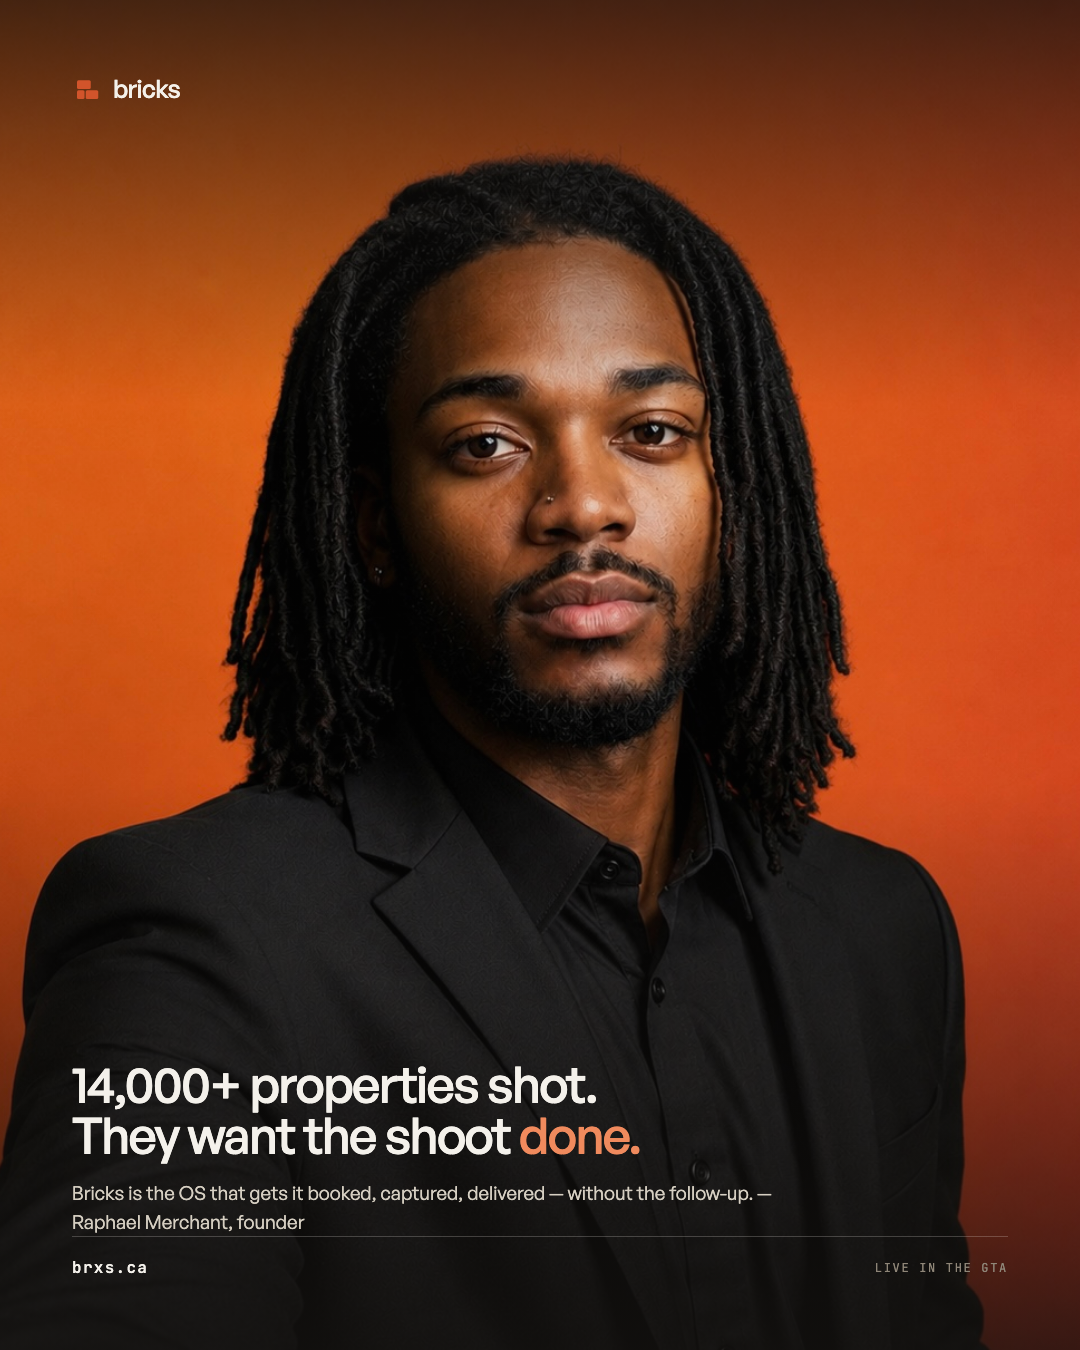
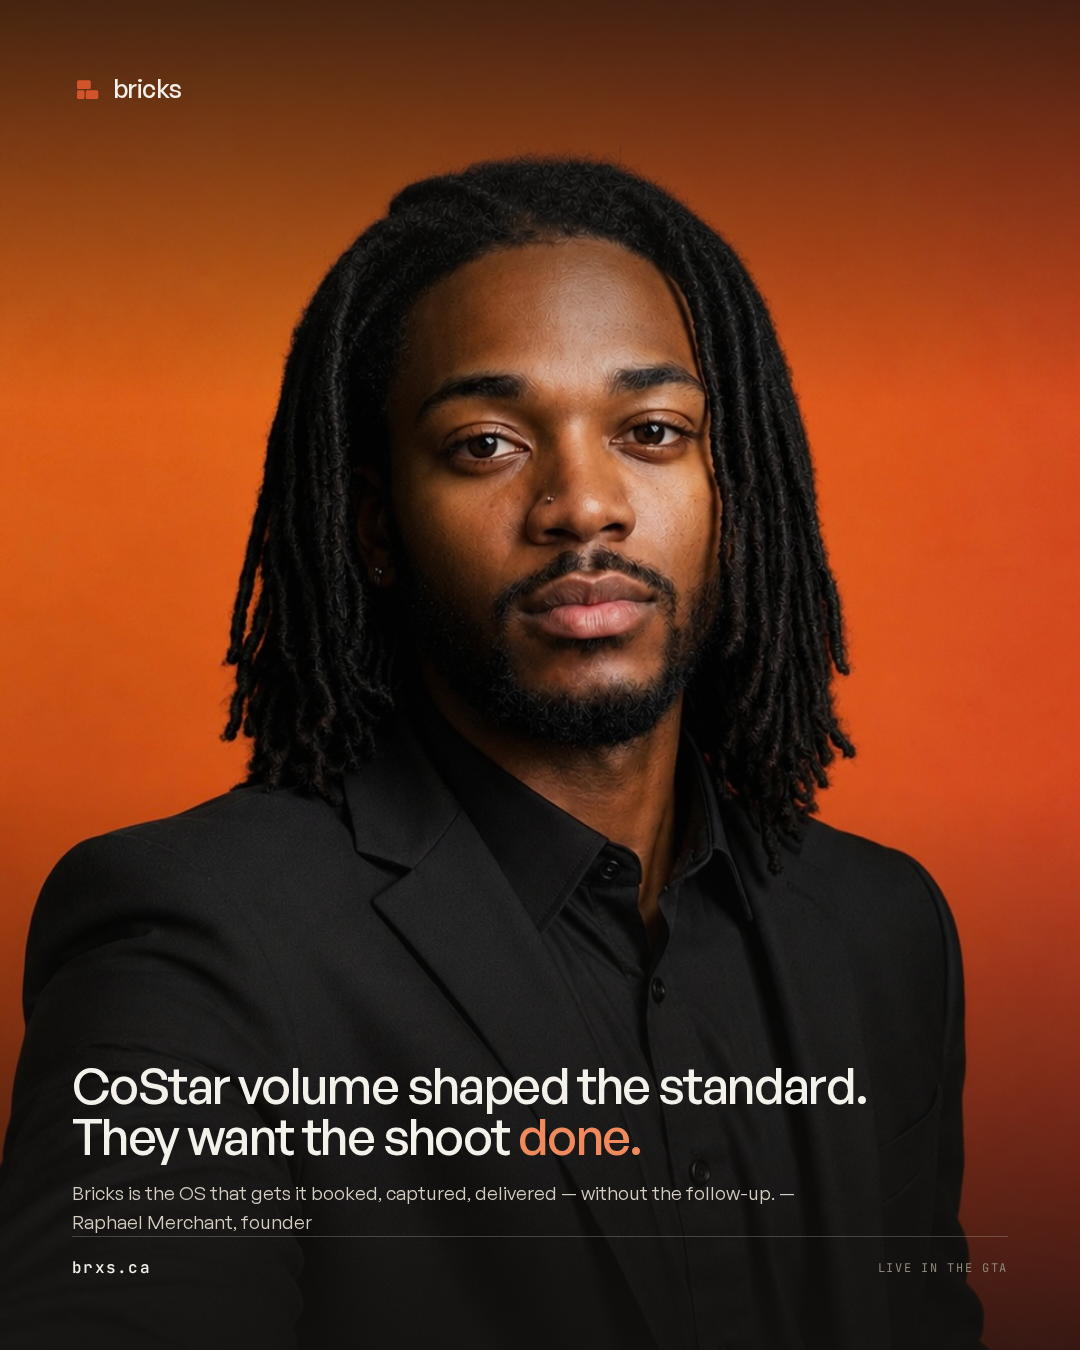
fix(www): scrub legacy static/outreach bare 14k volume
Align root about.html + social campaign copy/poster builders with Next
product truth: CoStar lineage OK, no invented Bricks 14,000+ metric.
Regen founder poster 03; extend marketing-honesty tests to legacy paths.

Changed region(s): [[0.0611, 0.7778, 0.7944, 0.9333], [0.1222, 0.0622, 0.1528, 0.0933], [0.0611, 0.8711, 0.0917, 0.9022]]

diff --git a/about.html b/about.html
@@ -4,7 +4,7 @@
 <meta charset="UTF-8" />
 <meta name="viewport" content="width=device-width, initial-scale=1.0" />
 <title>About Raphael Merchant | Bricks — GTA real estate media</title>
-<meta name="description" content="Raphael Merchant is the founder of Bricks, a GTA real estate media company. 14,000+ properties shot as regional creative lead at CoStar, photography work behind Apartments.com's launch across the Greater Golden Horseshoe, and a Transport Canada Advanced RPAS drone certificate. Bricks shoots HDR, licensed drone, floor plans and 3D tours across the Greater Toronto Area." />
+<meta name="description" content="Raphael Merchant is the founder of Bricks, a GTA real estate media company. CoStar regional creative lead lineage, photography work behind Apartments.com's launch across the Greater Golden Horseshoe, and a Transport Canada Advanced RPAS drone certificate. Bricks shoots HDR, licensed drone, floor plans and 3D tours across the Greater Toronto Area." />
 <link rel="canonical" href="https://www.brxs.ca/about.html" />
 <link rel="icon" type="image/svg+xml" href="/favicon.svg" />
 <meta name="theme-color" content="#D2542B" />
@@ -13,10 +13,10 @@
 <meta property="og:locale" content="en_CA" />
 <meta property="og:url" content="https://www.brxs.ca/about.html" />
 <meta property="og:title" content="About Raphael Merchant | Bricks" />
-<meta property="og:description" content="Founder of Bricks — GTA real estate media. 14,000+ properties shot at CoStar, photography work behind Apartments.com's Greater Golden Horseshoe launch, Advanced RPAS certified." />
+<meta property="og:description" content="Founder of Bricks — GTA real estate media. CoStar regional creative lead lineage, photography work behind Apartments.com's Greater Golden Horseshoe launch, Advanced RPAS certified." />
 <meta name="twitter:card" content="summary_large_image" />
 <meta name="twitter:title" content="About Raphael Merchant | Bricks" />
-<meta name="twitter:description" content="Founder of Bricks — GTA real estate media. 14,000+ properties shot at CoStar, work behind Apartments.com's Greater Golden Horseshoe launch." />
+<meta name="twitter:description" content="Founder of Bricks — GTA real estate media. CoStar regional creative lead lineage, work behind Apartments.com's Greater Golden Horseshoe launch." />
 <meta property="og:image" content="https://www.brxs.ca/media/raphael-merchant-640.jpg" />
 <meta name="twitter:image" content="https://www.brxs.ca/media/raphael-merchant-640.jpg" />
 <link rel="preconnect" href="https://api.fontshare.com" />
@@ -52,7 +52,7 @@
   "@type": "Person",
   "name": "Raphael Merchant",
   "jobTitle": "Founder, Bricks",
-  "description": "Founder of Bricks, a GTA real estate media company. Shot and profiled 14,000+ properties as regional creative lead at CoStar; photography work behind Apartments.com's launch across the Greater Golden Horseshoe. Transport Canada Advanced RPAS drone certificate holder.",
+  "description": "Founder of Bricks, a GTA real estate media company. Regional creative lead at CoStar; photography work behind Apartments.com's launch across the Greater Golden Horseshoe. Transport Canada Advanced RPAS drone certificate holder.",
   "image": "https://www.brxs.ca/media/raphael-merchant-640.jpg",
   "url": "https://www.brxs.ca/about.html",
   "email": "booking@brxs.ca",
@@ -85,7 +85,7 @@
   <div class="wrap">
   <span class="badge">About</span>
   <h1>Raphael Merchant</h1>
-  <p class="sub">Founder of Bricks — GTA real estate media, built on 14,000+ properties shot at CoStar and photography work behind Apartments.com's launch across the Greater Golden Horseshoe.</p>
+  <p class="sub">Founder of Bricks — GTA real estate media. CoStar regional creative lead lineage and photography work behind Apartments.com's launch across the Greater Golden Horseshoe.</p>
   </div>
 </section>
 
@@ -96,13 +96,13 @@
       <div class="bio">
         <span class="role">Founder · Bricks</span>
         <p>Raphael Merchant started Bricks to give GTA listing agents one consistent standard of media — HDR photography, licensed drone, floor plans, and 3D virtual tours — booked direct, delivered in 24–48 hours.</p>
-        <p>Before Bricks, Raphael shot and profiled <strong>14,000+ properties</strong> as a regional creative lead at CoStar — architectural photography and portfolio work at a volume most photographers never reach. That work helped power Apartments.com's launch across the Greater Golden Horseshoe, which aired during Super Bowl LVIII. That volume is where the standard comes from: accurate, measured, and built to move listings — not just look pretty.</p>
+        <p>That volume is where the standard comes from: accurate, measured, and built to move listings — not just look pretty. CoStar, then the photography behind Apartments.com's Greater Golden Horseshoe launch, which aired during Super Bowl LVIII.</p>
         <p>Raphael also holds a <strong>Transport Canada Advanced RPAS (Remotely Piloted Aircraft Systems) certificate</strong>, which is what lets Bricks fly legally for commercial aerial work in the complex airspace around Toronto and Mississauga — including near Pearson.</p>
       </div>
     </div>
 
     <div class="creds">
-      <div class="c"><div class="n">14,000+</div><div class="l">Properties shot &amp; profiled as regional creative lead at CoStar</div></div>
+      <div class="c"><div class="n">CoStar</div><div class="l">Regional creative lead — volume that shaped the standard</div></div>
       <div class="c"><div class="n">Apartments.com</div><div class="l">Photography work behind the platform's Greater Golden Horseshoe launch</div></div>
       <div class="c"><div class="n">Advanced RPAS</div><div class="l">Transport Canada certified — commercial drone operations</div></div>
     </div>

diff --git a/src/lib/marketing-honesty.test.ts b/src/lib/marketing-honesty.test.ts
@@ -45,3 +45,25 @@ describe('travel base matches Companion / quote-engine', () => {
     assert.ok(Math.abs(TRAVEL_BASE.lng - -79.7482435) < 1e-6)
   })
 })
+
+describe('marketing honesty — legacy static + outreach (no bare 14k)', () => {
+  const rootFiles = [
+    '../../about.html',
+    '../../outreach/social-campaign/first-post.md',
+    '../../outreach/social-campaign/social-posts.md',
+    '../../outreach/social-campaign/build_posters.py',
+    '../../outreach/social-campaign/build_posters_photo.py',
+  ]
+
+  for (const rel of rootFiles) {
+    it(`${rel} has no bare 14,000+ volume claim`, () => {
+      const src = readFileSync(join(__dirname, rel), 'utf8')
+      assert.equal(
+        /14,?000\+/.test(src),
+        false,
+        `${rel} still contains 14,000+ — scrub or attribute as CoStar lineage without inventing Bricks volume`,
+      )
+    })
+  }
+})
+

diff --git a/outreach/social-campaign/build_posters.py b/outreach/social-campaign/build_posters.py
@@ -123,7 +123,7 @@ p2 = page(f"""
 p3 = page(f"""
   <div class="brandrow">{BRICK_MARK}<span class="wordmark">bricks</span></div>
   <div style="margin-top:54px;"><span class="kicker">From the founder</span></div>
-  <h1 class="h1" style="margin-top:28px;font-size:62px;">14,000+ properties shot. Agents don't want another app — they want the shoot <span class="ac">done.</span></h1>
+  <h1 class="h1" style="margin-top:28px;font-size:62px;">CoStar volume shaped the standard. Agents don't want another app — they want the shoot <span class="ac">done.</span></h1>
   <div class="spacer"></div>
   <p class="sub" style="margin-bottom:24px;">Bricks is the OS that gets it <b>booked, captured, delivered</b> — without the follow-up.</p>
   <div class="foot">

diff --git a/outreach/social-campaign/build_posters_photo.py b/outreach/social-campaign/build_posters_photo.py
@@ -107,7 +107,7 @@ p2 = page(f"""
 p3 = page(f"""
   <div class="brandrow">{BRICK_MARK}<span class="wordmark">bricks</span></div>
   <div class="spacer"></div>
-  <h1 class="h1" style="font-size:50px;">14,000+ properties shot.<br/>They want the shoot <span class="ac">done.</span></h1>
+  <h1 class="h1" style="font-size:50px;">CoStar volume shaped the standard.<br/>They want the shoot <span class="ac">done.</span></h1>
   <p class="sub" style="margin-top:18px;">Bricks is the OS that gets it booked, captured, delivered — without the follow-up. — Raphael Merchant, founder</p>
   <div class="foot"><span class="url">brxs.ca</span><span class="geo">Live in the GTA</span></div>
 """, S["founder"], "scrim-top", 1080, 1350)

diff --git a/outreach/social-campaign/first-post.md b/outreach/social-campaign/first-post.md
@@ -15,7 +15,7 @@ One platform, one standard, predictable media across your whole book. Photo, lic
 floor plan on every shoot, from **$248** by footprint. Add a cinematic reel, 3D tour, twilight, or
 virtual staging à la carte. Delivered in 24–48h.
 
-14,000+ properties shot taught me agents don't want another app — they want the shoot *done.*
+CoStar volume taught me agents don't want another app — they want the shoot *done.*
 That's the operating system.
 
 We're the first subscription real-estate media operating system. GTA agents: your next listing is one booking away.
@@ -25,7 +25,7 @@ We're the first subscription real-estate media operating system. GTA agents: you
 
 ## LINKEDIN — founder angle (alt, more personal)
 Photo: 03-founder-1080x1350.png.
-14,000+ properties shot and one thing's clear — agents don't want another app.
+CoStar volume made one thing clear — agents don't want another app.
 They want the shoot done. Bricks is the operating system that gets it booked, captured, delivered, without the
 follow-up. Live in the GTA — core shoot (photo + drone + floor plan) from $248. brxs.ca
 

diff --git a/outreach/social-campaign/social-posts.md b/outreach/social-campaign/social-posts.md
@@ -53,7 +53,7 @@ Live in the GTA → brxs.ca
 #realtor #GTA
 
 ### C. Founder / pain (post)
-14,000+ properties shot and one thing's clear — agents don't want another app, they want the
+CoStar volume made one thing clear — agents don't want another app, they want the
 shoot done.
 
 Bricks is the operating system that gets it booked, captured, delivered — without the follow-up. Live in the GTA,
